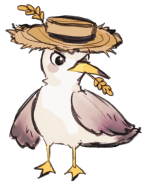
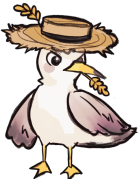
art asset import

Changed region(s): [[0.0, 0.0, 1.0, 1.0]]

diff --git a/GDIM 61 Game Project/Assets/Scripts/Pet.cs b/GDIM 61 Game Project/Assets/Scripts/Pet.cs
@@ -207,7 +207,7 @@ public class Pet : MonoBehaviour
         if (bought == false)
         {
             GameController.instance.balance -= cost;
-            GameController.instance.UI.balanceText.text = "Balance: " + GameController.instance.balance;
+            GameController.instance.UI.balanceText.text = GameController.instance.balance.ToString();
             GameController.instance.playerTeamList.Add(transform.gameObject);
             GameController.instance.playerShopList.Remove(transform.gameObject);
             bought = true;
